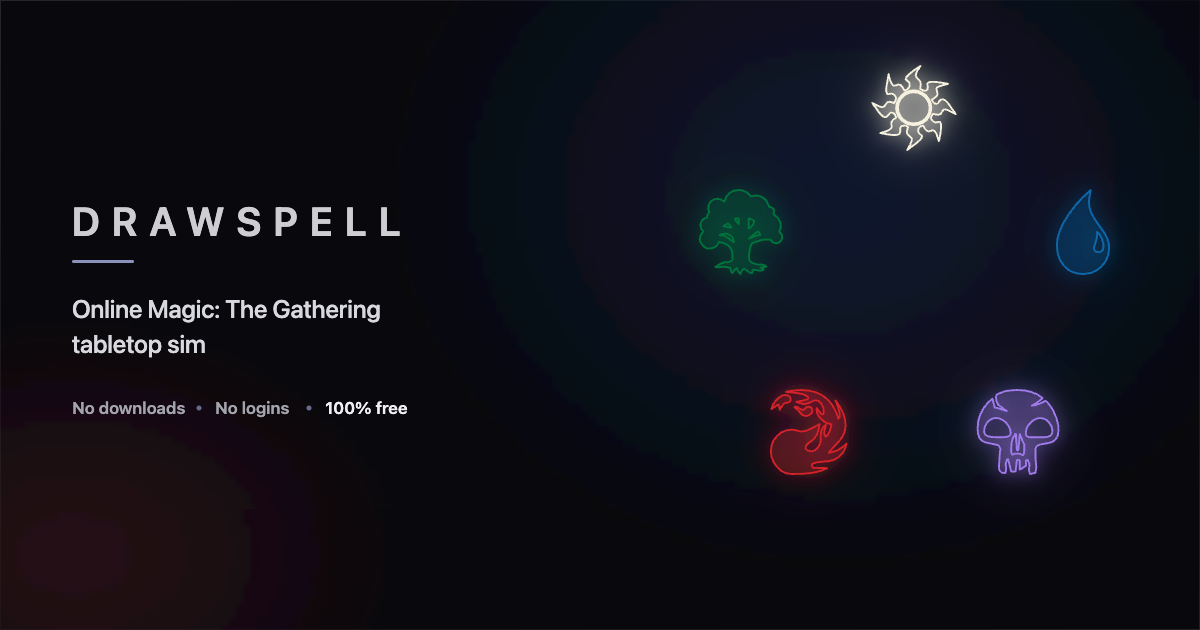
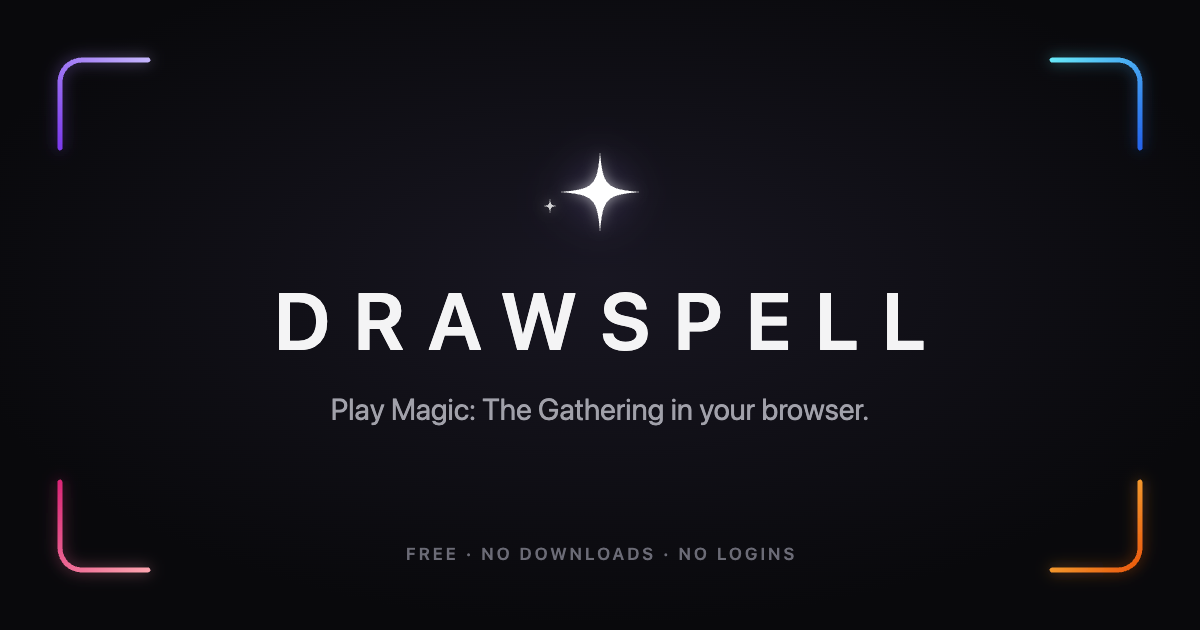
Redesign social preview image
Replace the mana-symbol OG image with a minimal card framed by the
logo's corner brackets, using the SiteHeader wordmark style. The
generator script now produces the new design.

diff --git a/apps/web/public/og_image.html b/apps/web/public/og_image.html
@@ -27,95 +27,58 @@
     <main class="artboard">
       <svg xmlns="http://www.w3.org/2000/svg" width="1200" height="630" viewBox="0 0 1200 630" role="img" aria-labelledby="title desc">
   <title id="title">Drawspell</title>
-  <desc id="desc">Online Magic: The Gathering tabletop simulator. No downloads, no logins, 100% free.</desc>
+  <desc id="desc">Play Magic: The Gathering in your browser. Free, no downloads, no logins.</desc>
   <defs>
-    <radialGradient id="blue-haze" cx="50%" cy="50%" r="50%">
-      <stop offset="0" stop-color="#111b36" stop-opacity=".84"/>
-      <stop offset="1" stop-color="#111b36" stop-opacity="0"/>
+    <radialGradient id="lift" cx="50%" cy="44%" r="55%">
+      <stop offset="0" stop-color="#1a1824" stop-opacity=".9"/>
+      <stop offset="1" stop-color="#1a1824" stop-opacity="0"/>
     </radialGradient>
-    <radialGradient id="red-haze" cx="50%" cy="50%" r="50%">
-      <stop offset="0" stop-color="#39131b" stop-opacity=".64"/>
-      <stop offset="1" stop-color="#39131b" stop-opacity="0"/>
-    </radialGradient>
-    <linearGradient id="edge" x1="0" y1="0" x2="1" y2="1">
-      <stop stop-color="#ffffff" stop-opacity=".12"/>
-      <stop offset=".48" stop-color="#ffffff" stop-opacity=".025"/>
-      <stop offset="1" stop-color="#ffffff" stop-opacity=".1"/>
+    <linearGradient id="tl" x1="0" y1="1" x2="1" y2="0">
+      <stop stop-color="#7c3aed"/><stop offset="1" stop-color="#c4b5fd"/>
     </linearGradient>
-    <filter id="soft"><feGaussianBlur stdDeviation="28"/></filter>
-
-  <filter id="glow-0" x="-100%" y="-100%" width="300%" height="300%">
-    <feDropShadow dx="0" dy="0" stdDeviation="3.5" flood-color="#f6f1de" flood-opacity=".9"/>
-    <feDropShadow dx="0" dy="0" stdDeviation="10" flood-color="#f6f1de" flood-opacity=".38"/>
-  </filter>
-  <filter id="glow-1" x="-100%" y="-100%" width="300%" height="300%">
-    <feDropShadow dx="0" dy="0" stdDeviation="3.5" flood-color="#0e68ab" flood-opacity=".9"/>
-    <feDropShadow dx="0" dy="0" stdDeviation="10" flood-color="#0e68ab" flood-opacity=".38"/>
-  </filter>
-  <filter id="glow-2" x="-100%" y="-100%" width="300%" height="300%">
-    <feDropShadow dx="0" dy="0" stdDeviation="3.5" flood-color="#9f7aea" flood-opacity=".9"/>
-    <feDropShadow dx="0" dy="0" stdDeviation="10" flood-color="#9f7aea" flood-opacity=".38"/>
-  </filter>
-  <filter id="glow-3" x="-100%" y="-100%" width="300%" height="300%">
-    <feDropShadow dx="0" dy="0" stdDeviation="3.5" flood-color="#d3202a" flood-opacity=".9"/>
-    <feDropShadow dx="0" dy="0" stdDeviation="10" flood-color="#d3202a" flood-opacity=".38"/>
-  </filter>
-  <filter id="glow-4" x="-100%" y="-100%" width="300%" height="300%">
-    <feDropShadow dx="0" dy="0" stdDeviation="3.5" flood-color="#00733e" flood-opacity=".9"/>
-    <feDropShadow dx="0" dy="0" stdDeviation="10" flood-color="#00733e" flood-opacity=".38"/>
-  </filter>
+    <linearGradient id="tr" x1="0" y1="0" x2="1" y2="1">
+      <stop stop-color="#67e8f9"/><stop offset="1" stop-color="#2563eb"/>
+    </linearGradient>
+    <linearGradient id="bl" x1="0" y1="0" x2="1" y2="1">
+      <stop stop-color="#db2777"/><stop offset="1" stop-color="#fda4af"/>
+    </linearGradient>
+    <linearGradient id="br" x1="0" y1="0" x2="1" y2="1">
+      <stop stop-color="#fcd34d"/><stop offset="1" stop-color="#ea580c"/>
+    </linearGradient>
+    <filter id="glow" x="-50%" y="-50%" width="200%" height="200%">
+      <feGaussianBlur in="SourceGraphic" stdDeviation="7" result="b"/>
+      <feColorMatrix in="b" type="matrix" values="1 0 0 0 0  0 1 0 0 0  0 0 1 0 0  0 0 0 .55 0" result="g"/>
+      <feMerge><feMergeNode in="g"/><feMergeNode in="SourceGraphic"/></feMerge>
+    </filter>
+    <filter id="spark-glow" x="-200%" y="-200%" width="500%" height="500%">
+      <feDropShadow dx="0" dy="0" stdDeviation="6" flood-color="#ffffff" flood-opacity=".55"/>
+      <feDropShadow dx="0" dy="0" stdDeviation="22" flood-color="#a78bfa" flood-opacity=".5"/>
+    </filter>
   </defs>
 
-  <rect width="1200" height="630" fill="#09090d"/>
-  <ellipse cx="840" cy="190" rx="470" ry="390" fill="url(#blue-haze)" filter="url(#soft)"/>
-  <ellipse cx="75" cy="555" rx="330" ry="230" fill="url(#red-haze)" filter="url(#soft)"/>
-  <path d="M0 0H1200V630H0Z" fill="none" stroke="url(#edge)" stroke-width="2"/>
+  <rect width="1200" height="630" fill="#09090c"/>
+  <rect width="1200" height="630" fill="url(#lift)"/>
 
+  <g fill="none" stroke-width="5" stroke-linecap="round" filter="url(#glow)">
+    <path d="M60 148V82a22 22 0 0 1 22-22h66" stroke="url(#tl)"/>
+    <path d="M1052 60h66a22 22 0 0 1 22 22v66" stroke="url(#tr)"/>
+    <path d="M60 482v66a22 22 0 0 0 22 22h66" stroke="url(#bl)"/>
+    <path d="M1052 570h66a22 22 0 0 0 22-22v-66" stroke="url(#br)"/>
+  </g>
 
-    <g transform="translate(872 66) scale(2.625)" aria-label="White mana">
-      <path d="M31.915 18.358c-2.189-1.234-3.593-1.852-4.21-1.852-0.448 0-0.799 0.344-1.052 1.032s-0.758 1.031-1.515 1.031c-0.309 0-0.94-0.112-1.895-0.336-0.533 0.814-0.8 1.334-0.8 1.558 0 0.309 0.23 0.673 0.689 1.095s0.846 0.631 1.162 0.631c0.201 0 0.473-0.042 0.817-0.127 0.344-0.083 0.574-0.126 0.689-0.126 0.345 0 0.516 0.632 0.516 1.895 0 1.207-0.28 3.059-0.842 5.558-0.73-2.863-1.502-4.295-2.315-4.295-0.113 0-0.344 0.084-0.695 0.254-0.351 0.168-0.611 0.252-0.779 0.252-0.814 0-1.543-0.743-2.189-2.232-1.291 0.197-1.937 0.857-1.937 1.98 0 0.562 0.259 1.010 0.779 1.347 0.518 0.336 0.779 0.576 0.779 0.716 0 0.759-1.109 1.924-3.327 3.495-1.178 0.842-1.993 1.431-2.441 1.768 0.392-0.505 0.785-1.164 1.179-1.978 0.448-0.926 0.673-1.642 0.673-2.148 0-0.28-0.323-0.674-0.968-1.179s-0.968-1.038-0.968-1.599c0-0.477 0.168-1.066 0.505-1.768-0.365-0.421-0.799-0.632-1.305-0.632-1.123 0-1.684 0.366-1.684 1.095 0-0.505 0-0.127 0 1.137 0.027 0.926-0.674 1.39-2.106 1.39-1.094 0-2.934-0.253-5.515-0.758 2.919-0.73 4.379-1.572 4.379-2.526 0 0.112-0.056-0.224-0.168-1.011-0.113-0.869 0.505-1.656 1.852-2.357-0.253-1.291-0.925-1.938-2.021-1.938-0.168 0-0.478 0.295-0.926 0.883-0.449 0.591-0.87 0.885-1.262 0.885-0.674 0-1.545-0.73-2.61-2.19-0.506-0.729-1.278-1.81-2.316-3.242 0.645 0.338 1.291 0.674 1.937 1.011 0.842 0.392 1.515 0.589 2.021 0.589 0.393 0 0.779-0.344 1.158-1.032s0.877-1.032 1.495-1.032c0.085 0 0.646 0.168 1.684 0.506 0.533-0.814 0.8-1.418 0.8-1.811 0-0.337-0.204-0.723-0.611-1.158s-0.779-0.652-1.116-0.652c-0.141 0-0.358 0.042-0.653 0.126-0.294 0.084-0.512 0.127-0.652 0.127-0.506 0-0.758-0.632-0.758-1.895 0-0.337 0.323-2.259 0.969-5.768-0.029 0.42 0.154 1.207 0.547 2.357 0.477 1.404 1.038 2.105 1.685 2.105 0.111 0 0.336-0.084 0.673-0.253s0.603-0.252 0.8-0.252c0.645 0 1.178 0.365 1.6 1.094l0.632 1.137c0.589 0 1.081-0.21 1.473-0.631s0.59-0.927 0.59-1.516c0-0.617-0.259-1.088-0.779-1.411s-0.78-0.568-0.78-0.737c0-0.59 0.927-1.586 2.779-2.989 1.487-1.122 2.456-1.782 2.906-1.979-1.207 1.628-1.811 2.82-1.811 3.579 0 0.393 0.238 0.815 0.716 1.263 0.589 0.533 0.926 0.912 1.010 1.137 0.28 0.647 0.252 1.53-0.084 2.653 0.758 0.534 1.333 0.8 1.727 0.8 0.813 0 1.221-0.422 1.221-1.263 0-0.084-0.035-0.351-0.105-0.8-0.071-0.449-0.091-0.702-0.064-0.758 0.112-0.393 0.884-0.59 2.316-0.59 0.898 0 2.764 0.253 5.6 0.758-0.618 0.168-1.544 0.42-2.779 0.758-1.123 0.337-1.685 0.716-1.685 1.137 0 0.197 0.070 0.533 0.211 1.010s0.211 0.828 0.211 1.053c0 0.392-0.253 0.758-0.758 1.094l-1.432 1.011c0.337 0.618 0.561 0.983 0.674 1.094 0.28 0.336 0.659 0.505 1.137 0.505 0.337 0 0.645-0.295 0.926-0.884s0.73-0.884 1.347-0.884c0.758 0 1.614 0.702 2.569 2.106 0.532 0.788 1.36 1.98 2.483 3.58zM22.569 15.917c0-1.796-0.66-3.354-1.98-4.674s-2.877-1.979-4.673-1.979c-1.825 0-3.397 0.653-4.716 1.959s-1.993 2.87-2.021 4.694c-0.029 1.796 0.638 3.347 2 4.651 1.362 1.305 2.94 1.959 4.736 1.959 1.909 0 3.501-0.625 4.778-1.874 1.278-1.248 1.902-2.827 1.875-4.736zM21.937 15.917c0 1.712-0.576 3.131-1.727 4.252-1.152 1.124-2.583 1.685-4.295 1.685-1.656 0-3.074-0.575-4.252-1.727-1.178-1.15-1.768-2.554-1.768-4.21 0-1.627 0.596-3.025 1.788-4.189 1.194-1.165 2.604-1.748 4.232-1.748s3.038 0.589 4.232 1.769c1.193 1.179 1.79 2.568 1.79 4.168z" fill="#f6f1de" fill-opacity=".18"
-        stroke="#f6f1de" stroke-width=".72" stroke-linejoin="round"
-        filter="url(#glow-0)" />
-    </g>
-    <g transform="translate(1041 190) scale(2.625)" aria-label="Blue mana">
-      <path d="M23.11 29.095c-1.903 1.937-4.248 2.905-7.033 2.905-3.126 0-5.605-1.070-7.439-3.21-1.733-2.038-2.599-4.637-2.599-7.795 0-3.397 1.478-7.271 4.433-11.62 2.411-3.566 5.248-6.692 8.509-9.375-0.476 2.175-0.713 3.72-0.713 4.637 0 2.107 0.662 4.162 1.986 6.166 1.631 2.378 2.87 4.145 3.72 5.299 1.325 2.005 1.987 3.958 1.987 5.859 0.001 2.82-0.951 5.198-2.852 7.133zM23.058 18.216c-0.509-1.138-1.104-1.893-1.784-2.268 0.102 0.204 0.153 0.493 0.153 0.867 0 0.714-0.204 1.732-0.612 3.057l-0.662 2.038c0 1.189 0.593 1.784 1.783 1.784 1.256 0 1.885-0.833 1.885-2.497 0-0.848-0.254-1.842-0.764-2.981z" fill="#0e68ab" fill-opacity=".18"
-        stroke="#0e68ab" stroke-width=".72" stroke-linejoin="round"
-        filter="url(#glow-1)" />
-    </g>
-    <g transform="translate(976 390) scale(2.625)" aria-label="Black mana">
-      <path d="M31.406 15.477c0 2.089-0.76 3.513-2.279 4.273-0.444 0.222-1.836 0.522-4.178 0.902-1.519 0.254-2.278 0.839-2.278 1.756v3.845c0 0.16 0.047 0.649 0.142 1.472l0.143 1.52c0 0.475-0.111 1.251-0.333 2.327-0.601 0.126-1.298 0.268-2.089 0.428-0.254-0.951-0.38-1.599-0.38-1.948 0-0.157 0.040-0.396 0.119-0.712 0.078-0.316 0.12-0.553 0.12-0.713 0-0.22-0.197-0.838-0.59-1.85h-0.736c-0.098 0.158-0.13 0.364-0.098 0.617 0.126 0.538 0.174 0.997 0.143 1.377-0.538 0.38-1.282 0.886-2.232 1.519-0.222-0.063-0.3-0.095-0.238-0.095v-3.371c-0.062-0.157-0.221-0.22-0.475-0.19h-0.569l-0.569 4.462c-0.444 0.032-0.981 0.032-1.614 0-0.223-1.044-0.617-2.594-1.187-4.652h-0.38c-0.349 1.109-0.538 1.711-0.57 1.805 0 0.126 0.039 0.371 0.119 0.735 0.078 0.364 0.118 0.609 0.118 0.736 0 0.095-0.032 0.332-0.095 0.712l-0.143 1.139c-0.064 0.063-0.143 0.095-0.237 0.095-0.949 0-1.583-0.237-1.899-0.711-0.316-0.475-0.444-1.14-0.38-1.995l0.38-5.696c0-0.095 0.031-0.222 0.095-0.38 0.062-0.158 0.095-0.269 0.095-0.332 0-0.254-0.269-0.76-0.807-1.52-0.094-0.031-0.586-0.143-1.471-0.333-0.539-0.126-1.599-0.348-3.181-0.665-2.185-0.41-3.276-2.167-3.276-5.269 0-4.621 1.9-8.466 5.698-11.536 0.157 0.855 0.427 1.993 0.806 3.418 0.285 0.064 0.903 0.206 1.852 0.427 0.191 0.064 1.156 0.412 2.897 1.045-0.887-0.538-2.042-1.408-3.466-2.611-0.538-0.633-0.807-1.692-0.807-3.18 0-0.348 0.602-0.76 1.805-1.236 1.075-0.443 1.883-0.695 2.421-0.759 1.709-0.22 3.022-0.333 3.941-0.333 3.955 0 7.151 1.014 9.588 3.039-0.79 0.918-2.152 1.898-4.082 2.942 0.76 0.032 1.868-0.268 3.323-0.902 1.455-0.632 2.073-0.949 1.852-0.949 0.253 0 0.76 0.507 1.52 1.519 0.569 0.759 1.028 1.441 1.377 2.041 1.012 1.805 1.692 3.751 2.042 5.839 0 0.729 0.015 1.251 0.047 1.567v0.38h0.001zM13.224 16.332c0-1.361-0.594-2.651-1.78-3.87s-2.461-1.827-3.822-1.827c-1.203 0-2.263 0.51-3.181 1.529s-1.377 2.151-1.377 3.393c0 1.082 0.522 1.784 1.567 2.102 0.665 0.192 1.597 0.303 2.801 0.334h2.611c2.119 0.032 3.181-0.522 3.181-1.661zM18.398 22.219v-1.472c-0.221-0.411-0.443-0.838-0.664-1.282-0.19-0.634-0.538-1.52-1.045-2.659l-0.523 5.555c0 0.444-0.095 0.665-0.285 0.665-0.126 0-0.221-0.031-0.285-0.094-0.222-3.355-0.333-4.811-0.333-4.369v-1.661c-0.064-0.096-0.142-0.143-0.237-0.143-1.077 1.109-1.614 2.897-1.614 5.365 0 1.361 0.125 2.2 0.379 2.517 0.254-0.063 0.538-0.174 0.855-0.332 0.126-0.064 0.49-0.095 1.093-0.095 0.6 0 1.329 0.19 2.183 0.569 0.316 0 0.475-0.854 0.475-2.562zM29.127 15.604c0-1.275-0.475-2.413-1.424-3.416s-2.042-1.505-3.275-1.505c-1.329 0-2.572 0.608-3.727 1.827s-1.733 2.492-1.733 3.822c0 1.108 0.538 1.661 1.614 1.661h5.459c2.057-0.031 3.086-0.828 3.086-2.389z" fill="#9f7aea" fill-opacity=".18"
-        stroke="#9f7aea" stroke-width=".72" stroke-linejoin="round"
-        filter="url(#glow-2)" />
-    </g>
-    <g transform="translate(764 390) scale(2.625)" aria-label="Red mana">
-      <path d="M30.857 22.306c-1.393 3.322-4.16 4.983-8.304 4.983-0.759 0-1.583 0.095-2.468 0.284-1.329 0.285-1.993 0.681-1.993 1.188 0 0.158 0.11 0.339 0.332 0.545 0.221 0.206 0.412 0.308 0.569 0.308-0.791 0-0.253 0.024 1.613 0.071s3.038 0.071 3.512 0.071c-2.752 1.613-7.356 2.356-13.81 2.23-2.12-0.031-3.939-0.965-5.457-2.8-1.488-1.741-2.231-3.686-2.231-5.837 0-2.277 0.767-4.216 2.302-5.814 1.533-1.596 3.441-2.396 5.718-2.396 0.506 0 1.178 0.111 2.017 0.332s1.4 0.332 1.684 0.332c1.17 0 2.626-0.482 4.367-1.448s2.563-1.448 2.468-1.448c-0.317 3.322-1.424 5.553-3.323 6.691-1.36 0.791-2.040 1.566-2.040 2.325 0 0.475 0.285 0.855 0.854 1.14 0.443 0.222 0.933 0.333 1.471 0.333 0.823 0 1.63-0.506 2.421-1.518 0.79-1.013 1.139-1.93 1.044-2.753-0.095-0.949-0.031-2.089 0.19-3.416 0.063-0.38 0.292-0.846 0.687-1.399s0.752-0.894 1.068-1.021c0 0.284-0.103 0.759-0.309 1.423s-0.308 1.156-0.308 1.471c0 0.696 0.189 1.234 0.569 1.613 0.569-0.221 1.075-0.933 1.519-2.136 0.379-0.917 0.6-1.803 0.664-2.657-1.329-0.063-2.603-0.664-3.82-1.804s-1.827-2.373-1.827-3.701c0-0.221 0.031-0.443 0.095-0.665 0.189 0.285 0.474 0.728 0.853 1.329 0.538 0.791 0.95 1.186 1.235 1.186 0.379 0 0.569-0.396 0.569-1.186 0-1.012-0.27-1.93-0.807-2.752-0.601-0.981-1.377-1.471-2.326-1.471-0.443 0-1.108 0.238-1.992 0.712-0.887 0.474-1.694 0.712-2.42 0.712-0.222 0-1.204-0.286-2.943-0.855 3.068-0.505 4.603-0.964 4.603-1.376 0-1.075-2.104-1.804-6.311-2.183-0.412-0.031-1.171-0.095-2.278-0.19 0.126-0.158 1.028-0.332 2.706-0.522 1.423-0.157 2.42-0.237 2.989-0.237 7.529 0 12.307 3.655 14.332 10.963 0.348-0.288 0.523-0.77 0.523-1.443 0-0.866-0.253-1.957-0.759-3.272-0.191-0.513-0.491-1.283-0.902-2.309 2.594 3.306 3.892 6.438 3.892 9.394 0 1.558-0.365 2.972-1.092 4.243-0.474 0.859-1.361 1.955-2.657 3.29-1.297 1.335-2.183 2.368-2.658 3.099 1.74-0.474 2.88-0.838 3.418-1.092 1.201-0.537 2.293-1.344 3.274-2.42 0 0.412-0.174 1.030-0.522 1.852zM10.166 3.656c0 0.569-0.317 0.933-0.949 1.091l-1.234 0.19c-0.443 0.221-1.092 1.092-1.946 2.61-0.095-0.474-0.237-1.138-0.427-1.993-0.285 0.032-0.759 0.285-1.423 0.759-0.285 0.221-0.744 0.553-1.377 0.996 0.191-1.139 0.823-2.292 1.899-3.464 1.139-1.296 2.246-1.945 3.322-1.945 1.423 0 2.135 0.586 2.135 1.756zM18.424 8.022c0 0.538-0.293 0.989-0.878 1.353s-1.163 0.546-1.732 0.546c-0.759 0-1.44-0.427-2.040-1.282-0.729-1.044-1.472-1.724-2.231-2.042 0.158-0.157 0.348-0.237 0.57-0.237 0.285 0 0.766 0.221 1.447 0.664s1.115 0.665 1.306 0.665c0.158 0 0.419-0.221 0.783-0.665s0.767-0.664 1.21-0.664c1.044 0 1.566 0.554 1.566 1.661z" fill="#d3202a" fill-opacity=".18"
-        stroke="#d3202a" stroke-width=".72" stroke-linejoin="round"
-        filter="url(#glow-3)" />
-    </g>
-    <g transform="translate(699 190) scale(2.625)" aria-label="Green mana">
-      <path d="M31.729 17.957c0 0.601-0.232 1.14-0.698 1.621s-0.998 0.72-1.598 0.72c-0.959 0-1.666-0.45-2.115-1.35l-2.115-0.090c-0.451 0-1.336 0.196-2.656 0.585-1.41 0.39-2.221 0.705-2.431 0.945-0.33 0.36-0.599 1.2-0.81 2.521-0.181 1.080-0.27 1.875-0.27 2.386 0 0.809 0.127 1.403 0.382 1.778s0.78 0.69 1.575 0.945c0.794 0.255 1.283 0.398 1.463 0.428 0.12 0 0.314-0.015 0.585-0.045h0.54c0.389 0 0.794 0.061 1.215 0.18 0.6 0.18 0.856 0.42 0.766 0.721-0.421-0.060-1.155 0.030-2.205 0.27l1.26 0.63c0 0.36-0.51 0.54-1.53 0.54-0.271 0-0.638-0.060-1.104-0.179-0.465-0.121-0.773-0.18-0.922-0.18h-0.585c-0.030 0.3-0.12 0.749-0.27 1.35-0.511-0.030-1.11-0.331-1.8-0.9s-1.125-0.855-1.305-0.855c-0.181 0-0.436 0.286-0.766 0.855-0.331 0.569-0.495 0.96-0.495 1.17-0.39-0.21-0.719-0.601-0.991-1.17-0.12-0.391-0.255-0.78-0.404-1.17-0.3 0.030-0.856 0.661-1.665 1.891h-0.226c-0.060-0.091-0.286-0.721-0.675-1.891-0.93-0.3-1.8-0.45-2.611-0.45-0.39 0-0.99 0.090-1.8 0.27l-1.26-0.089c0.179-0.18 0.704-0.525 1.575-1.035 1.020-0.6 1.8-0.901 2.34-0.901 0.089 0 0.208 0.015 0.36 0.045 0.149 0.031 0.27 0.045 0.36 0.045 0.208 0 0.547-0.112 1.012-0.338 0.465-0.224 0.735-0.427 0.809-0.607 0.076-0.182 0.114-0.646 0.114-1.396 0-1.71-0.45-2.985-1.351-3.825-0.781-0.75-2.070-1.29-3.871-1.621-0.48 1.71-1.83 2.566-4.050 2.566-0.721 0-1.441-0.435-2.16-1.305s-1.079-1.666-1.079-2.386c0-1.11 0.464-2.025 1.394-2.747-0.749-0.779-1.125-1.574-1.125-2.384 0-0.751 0.232-1.41 0.698-1.982 0.465-0.569 1.073-0.899 1.823-0.99-0.060-0.959 0.255-1.62 0.945-1.98-0.33-0.329-0.495-0.914-0.495-1.754 0-0.99 0.33-1.816 0.99-2.476s1.485-0.991 2.475-0.991c1.081 0 1.966 0.377 2.656 1.126 0.87-2.97 2.746-4.456 5.625-4.456 1.5 0 2.82 0.6 3.961 1.801 0.42 0.45 0.63 0.69 0.63 0.719-0.36 0-0.179-0.068 0.54-0.202s1.244-0.203 1.576-0.203c1.169 0 2.205 0.435 3.105 1.305 0.78 0.78 1.32 1.77 1.621 2.97 0.209 0.030 0.54 0.12 0.99 0.269 0.659 0.332 0.99 0.9 0.99 1.711 0 0.151-0.121 0.436-0.36 0.855 1.92 1.080 2.88 2.58 2.88 4.501 0 0.54-0.21 1.291-0.63 2.251 0.78 0.449 1.17 1.11 1.17 1.98zM13.186 19.937v-0.585c0-0.69-0.337-1.32-1.012-1.89s-1.358-0.855-2.048-0.855c-0.841 0-1.62 0.195-2.341 0.584 1.59-0.089 3.391 0.826 5.4 2.746zM12.377 14.357c-0.45-0.511-0.84-1.036-1.171-1.576-1.26 0.33-1.89 0.705-1.89 1.124 0.36-0.029 0.885 0.038 1.575 0.203s1.186 0.248 1.486 0.248zM15.123 12.961v-1.98c-0.721-0.12-1.157-0.18-1.305-0.18v0.675l1.305 1.486zM20.973 11.701c-0.36-0.15-1.036-0.45-2.025-0.9v3.87c1.41-0.811 2.084-1.801 2.025-2.97zM23.447 17.012l-0.989-1.215c-0.6 0.42-1.208 0.848-1.823 1.283s-1.148 0.923-1.597 1.463c1.35-0.721 2.821-1.23 4.41-1.531z" fill="#00733e" fill-opacity=".18"
-        stroke="#00733e" stroke-width=".72" stroke-linejoin="round"
-        filter="url(#glow-4)" />
-    </g>
+  <g transform="translate(600 192)" filter="url(#spark-glow)" fill="#ffffff">
+    <path d="M0-40C3-6 6-3 40 0C6 3 3 6 0 40C-3 6-6 3-40 0C-6-3-3-6 0-40Z"/>
+    <path d="M-50 22c.6-7 1.2-7.6 8-8c-6.8-.4-7.4-1-8-8c-.6 7-1.2 7.6-8 8c6.8.4 7.4 1 8 8Z" fill-opacity=".8"/>
+  </g>
 
-  <g transform="translate(72 0)">
-    <text x="0" y="236" fill="#e4e4e7" fill-opacity=".9"
-      font-family="-apple-system, BlinkMacSystemFont, 'Segoe UI', sans-serif"
-      font-size="40" font-weight="600" letter-spacing="12">DRAWSPELL</text>
-    <rect x="0" y="260" width="62" height="3" rx="1.5" fill="#8b91ba"/>
-    <text x="0" y="318" fill="#d8d8df" font-family="-apple-system, BlinkMacSystemFont, 'Segoe UI', sans-serif"
-      font-size="25" font-weight="500" letter-spacing="-.2">Online Magic: The Gathering</text>
-    <text x="0" y="353" fill="#d8d8df" font-family="-apple-system, BlinkMacSystemFont, 'Segoe UI', sans-serif"
-      font-size="25" font-weight="500" letter-spacing="-.2">tabletop sim</text>
-    <g transform="translate(0 414)" font-family="-apple-system, BlinkMacSystemFont, 'Segoe UI', sans-serif" font-size="17" font-weight="600">
-      <text x="0" y="0" fill="#a4a4ae">No downloads</text>
-      <circle cx="127" cy="-6" r="2.5" fill="#666b8c"/>
-      <text x="143" y="0" fill="#a4a4ae">No logins</text>
-      <circle cx="237" cy="-6" r="2.5" fill="#666b8c"/>
-      <text x="253" y="0" fill="#f0f0f4">100% free</text>
-    </g>
+  <g text-anchor="middle" font-family="-apple-system, BlinkMacSystemFont, 'Segoe UI', 'Roboto', 'Helvetica Neue', sans-serif">
+    <!-- Tracking trails the last letter, so shift right by half of it to stay centered. -->
+    <text x="612" y="350" fill="#f4f4f5" font-size="80" font-weight="600" letter-spacing="24">DRAWSPELL</text>
+    <text x="600" y="420" fill="#a1a1aa" font-size="30" letter-spacing="-.2">Play Magic: The Gathering in your browser.</text>
+    <text x="601.5" y="560" fill="#6b6b76" font-size="17" font-weight="600" letter-spacing="3">FREE · NO DOWNLOADS · NO LOGINS</text>
   </g>
 </svg>
+
     </main>
   </body>
 </html>

diff --git a/apps/web/scripts/generate-og-image.ts b/apps/web/scripts/generate-og-image.ts
@@ -1,92 +1,71 @@
-import { readFile, writeFile } from "node:fs/promises";
+import { writeFile } from "node:fs/promises";
 import { chromium } from "playwright-core";
 
 const width = 1200;
 const height = 630;
 const root = new URL("../", import.meta.url);
-const orbitSource = await readFile(
-  new URL("src/components/landing/OrbitAnimation.tsx", root),
-  "utf8",
-);
 
-const symbols = [...orbitSource.matchAll(
-  /name: "([^"]+)",[\s\S]*?color: "([^"]+)",[\s\S]*?glow: "([^"]+)",[\s\S]*?path: "([^"]+)"/g,
-)].map(([, name, color, glow, path]) => ({ name, color, glow, path }));
+// The app's body font stack (src/styles.css), used by the SiteHeader wordmark.
+const fontFamily =
+  "-apple-system, BlinkMacSystemFont, 'Segoe UI', 'Roboto', 'Helvetica Neue', sans-serif";
+// SiteHeader wordmark: semibold, uppercase, tracking-[0.3em].
+const wordmarkSize = 80;
+const wordmarkTracking = wordmarkSize * 0.3;
 
-if (symbols.length !== 5) {
-  throw new Error(`Expected 5 mana symbols, found ${symbols.length}`);
-}
-
-const positions = [
-  [914, 108],
-  [1083, 232],
-  [1018, 432],
-  [806, 432],
-  [741, 232],
+// Corner brackets from the Drawspell mark, framing the card.
+const brackets = [
+  { id: "tl", d: "M60 148V82a22 22 0 0 1 22-22h66", stops: ["#7c3aed", "#c4b5fd"], axis: 'x1="0" y1="1" x2="1" y2="0"' },
+  { id: "tr", d: "M1052 60h66a22 22 0 0 1 22 22v66", stops: ["#67e8f9", "#2563eb"], axis: 'x1="0" y1="0" x2="1" y2="1"' },
+  { id: "bl", d: "M60 482v66a22 22 0 0 0 22 22h66", stops: ["#db2777", "#fda4af"], axis: 'x1="0" y1="0" x2="1" y2="1"' },
+  { id: "br", d: "M1052 570h66a22 22 0 0 0 22-22v-66", stops: ["#fcd34d", "#ea580c"], axis: 'x1="0" y1="0" x2="1" y2="1"' },
 ];
 
-const symbolMarkup = symbols.map((symbol, index) => {
-  const [x, y] = positions[index];
-  return `
-    <g transform="translate(${x - 42} ${y - 42}) scale(2.625)" aria-label="${symbol.name}">
-      <path d="${symbol.path}" fill="${symbol.color}" fill-opacity=".18"
-        stroke="${symbol.color}" stroke-width=".72" stroke-linejoin="round"
-        filter="url(#glow-${index})" />
-    </g>`;
-}).join("");
+const gradients = brackets.map(({ id, stops: [from, to], axis }) => `
+    <linearGradient id="${id}" ${axis}>
+      <stop stop-color="${from}"/><stop offset="1" stop-color="${to}"/>
+    </linearGradient>`).join("");
 
-const filters = symbols.map((symbol, index) => `
-  <filter id="glow-${index}" x="-100%" y="-100%" width="300%" height="300%">
-    <feDropShadow dx="0" dy="0" stdDeviation="3.5" flood-color="${symbol.color}" flood-opacity=".9"/>
-    <feDropShadow dx="0" dy="0" stdDeviation="10" flood-color="${symbol.color}" flood-opacity=".38"/>
-  </filter>`).join("");
+const bracketMarkup = brackets.map(({ id, d }) => `
+    <path d="${d}" stroke="url(#${id})"/>`).join("");
 
 const svg = `<svg xmlns="http://www.w3.org/2000/svg" width="${width}" height="${height}" viewBox="0 0 ${width} ${height}" role="img" aria-labelledby="title desc">
   <title id="title">Drawspell</title>
-  <desc id="desc">Online Magic: The Gathering tabletop simulator. No downloads, no logins, 100% free.</desc>
+  <desc id="desc">Play Magic: The Gathering in your browser. Free, no downloads, no logins.</desc>
   <defs>
-    <radialGradient id="blue-haze" cx="50%" cy="50%" r="50%">
-      <stop offset="0" stop-color="#111b36" stop-opacity=".84"/>
-      <stop offset="1" stop-color="#111b36" stop-opacity="0"/>
-    </radialGradient>
-    <radialGradient id="red-haze" cx="50%" cy="50%" r="50%">
-      <stop offset="0" stop-color="#39131b" stop-opacity=".64"/>
-      <stop offset="1" stop-color="#39131b" stop-opacity="0"/>
-    </radialGradient>
-    <linearGradient id="edge" x1="0" y1="0" x2="1" y2="1">
-      <stop stop-color="#ffffff" stop-opacity=".12"/>
-      <stop offset=".48" stop-color="#ffffff" stop-opacity=".025"/>
-      <stop offset="1" stop-color="#ffffff" stop-opacity=".1"/>
-    </linearGradient>
-    <filter id="soft"><feGaussianBlur stdDeviation="28"/></filter>
-    ${filters}
+    <radialGradient id="lift" cx="50%" cy="44%" r="55%">
+      <stop offset="0" stop-color="#1a1824" stop-opacity=".9"/>
+      <stop offset="1" stop-color="#1a1824" stop-opacity="0"/>
+    </radialGradient>${gradients}
+    <filter id="glow" x="-50%" y="-50%" width="200%" height="200%">
+      <feGaussianBlur in="SourceGraphic" stdDeviation="7" result="b"/>
+      <feColorMatrix in="b" type="matrix" values="1 0 0 0 0  0 1 0 0 0  0 0 1 0 0  0 0 0 .55 0" result="g"/>
+      <feMerge><feMergeNode in="g"/><feMergeNode in="SourceGraphic"/></feMerge>
+    </filter>
+    <filter id="spark-glow" x="-200%" y="-200%" width="500%" height="500%">
+      <feDropShadow dx="0" dy="0" stdDeviation="6" flood-color="#ffffff" flood-opacity=".55"/>
+      <feDropShadow dx="0" dy="0" stdDeviation="22" flood-color="#a78bfa" flood-opacity=".5"/>
+    </filter>
   </defs>
 
-  <rect width="1200" height="630" fill="#09090d"/>
-  <ellipse cx="840" cy="190" rx="470" ry="390" fill="url(#blue-haze)" filter="url(#soft)"/>
-  <ellipse cx="75" cy="555" rx="330" ry="230" fill="url(#red-haze)" filter="url(#soft)"/>
-  <path d="M0 0H1200V630H0Z" fill="none" stroke="url(#edge)" stroke-width="2"/>
+  <rect width="${width}" height="${height}" fill="#09090c"/>
+  <rect width="${width}" height="${height}" fill="url(#lift)"/>
 
-  ${symbolMarkup}
-
-  <g transform="translate(72 0)">
-    <text x="0" y="236" fill="#e4e4e7" fill-opacity=".9"
-      font-family="-apple-system, BlinkMacSystemFont, 'Segoe UI', sans-serif"
-      font-size="40" font-weight="600" letter-spacing="12">DRAWSPELL</text>
-    <rect x="0" y="260" width="62" height="3" rx="1.5" fill="#8b91ba"/>
-    <text x="0" y="318" fill="#d8d8df" font-family="-apple-system, BlinkMacSystemFont, 'Segoe UI', sans-serif"
-      font-size="25" font-weight="500" letter-spacing="-.2">Online Magic: The Gathering</text>
-    <text x="0" y="353" fill="#d8d8df" font-family="-apple-system, BlinkMacSystemFont, 'Segoe UI', sans-serif"
-      font-size="25" font-weight="500" letter-spacing="-.2">tabletop sim</text>
-    <g transform="translate(0 414)" font-family="-apple-system, BlinkMacSystemFont, 'Segoe UI', sans-serif" font-size="17" font-weight="600">
-      <text x="0" y="0" fill="#a4a4ae">No downloads</text>
-      <circle cx="127" cy="-6" r="2.5" fill="#666b8c"/>
-      <text x="143" y="0" fill="#a4a4ae">No logins</text>
-      <circle cx="237" cy="-6" r="2.5" fill="#666b8c"/>
-      <text x="253" y="0" fill="#f0f0f4">100% free</text>
-    </g>
+  <g fill="none" stroke-width="5" stroke-linecap="round" filter="url(#glow)">${bracketMarkup}
   </g>
-</svg>`.replace(/[ \t]+$/gm, "");
+
+  <g transform="translate(600 192)" filter="url(#spark-glow)" fill="#ffffff">
+    <path d="M0-40C3-6 6-3 40 0C6 3 3 6 0 40C-3 6-6 3-40 0C-6-3-3-6 0-40Z"/>
+    <path d="M-50 22c.6-7 1.2-7.6 8-8c-6.8-.4-7.4-1-8-8c-.6 7-1.2 7.6-8 8c6.8.4 7.4 1 8 8Z" fill-opacity=".8"/>
+  </g>
+
+  <g text-anchor="middle" font-family="${fontFamily}">
+    <!-- Tracking trails the last letter, so shift right by half of it to stay centered. -->
+    <text x="${600 + wordmarkTracking / 2}" y="350" fill="#f4f4f5" font-size="${wordmarkSize}" font-weight="600" letter-spacing="${wordmarkTracking}">DRAWSPELL</text>
+    <text x="600" y="420" fill="#a1a1aa" font-size="30" letter-spacing="-.2">Play Magic: The Gathering in your browser.</text>
+    <text x="601.5" y="560" fill="#6b6b76" font-size="17" font-weight="600" letter-spacing="3">FREE · NO DOWNLOADS · NO LOGINS</text>
+  </g>
+</svg>
+`;
 
 const svgPath = new URL("public/og_image.svg", root);
 const pngPath = new URL("public/og_image.png", root);
